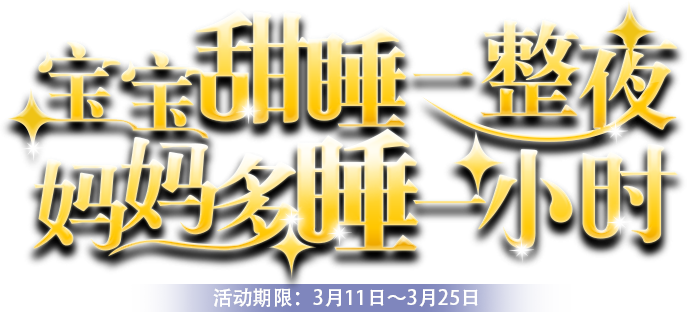
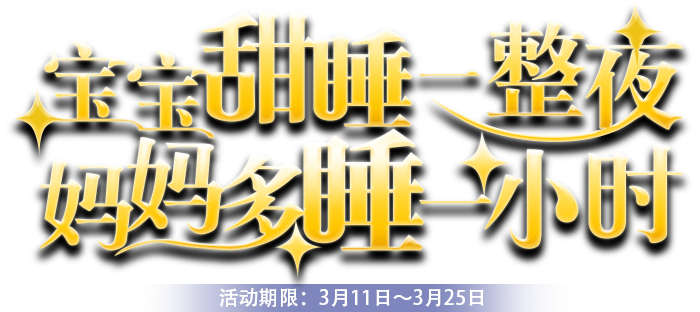
Tvc 动画

diff --git a/src/index.js b/src/index.js
@@ -94,23 +94,32 @@ import Create from './components/Create'
 
 	GOON.Tvc = (function(){
 
-		var tvc = $('.tvc');
+		var tvc = $('.tvc'),
+			timer,
+			i = 0;
 
 		var init = function(){
 
 			new Tvc().render('div.tvc');
 
-			tvc.fadeIn();
+			show();
 
 			bindEvents();
 		};
 
 		var hide = function(){
 			tvc.hide();
+			clearInterval(timer)
 		};
 
 		var show = function(){
-			tvc.show();
+			tvc.fadeIn();
+			clearInterval(timer)
+			timer = setInterval(function(){
+				if(i===3){i=0}
+				$('.slogan').find('.light').eq(i).addClass('active').siblings().removeClass('active')
+				i++;
+			},2000)
 		};
 
 		var bindEvents = function(){

diff --git a/src/styles/Layout.scss b/src/styles/Layout.scss
@@ -78,6 +78,23 @@ a{
 		top: 0;
 		height: 312px;
 		background: url(../images/slogan.png) center center no-repeat;
+		.light{
+			opacity: 0;
+			transition: opacity .8s;
+			position: absolute;
+			left: -8px;
+			top: 0;
+			width: 100%;
+			height: 100%;
+			@for $i from 1 through 3 {
+				&.light-#{$i}{
+					background: url('../images/slogan-light-'+$i+'.png') 0 0 no-repeat;
+				}
+			}
+			&.active{
+				opacity: 1;
+			}
+		}
 	}
 	.entrance{
 		bottom: 0;

diff --git a/src/components/Tvc/Template.html b/src/components/Tvc/Template.html
@@ -1,4 +1,8 @@
-<div class="slogan"></div>
+<div class="slogan">
+	<div class="light light-1"></div>
+	<div class="light light-2"></div>
+	<div class="light light-3"></div>
+</div>
 <div class="entrance">
 	{{#start}}
 	<a class="button action-show-star" href="javascript:;">查看我的甜睡神器</a>
